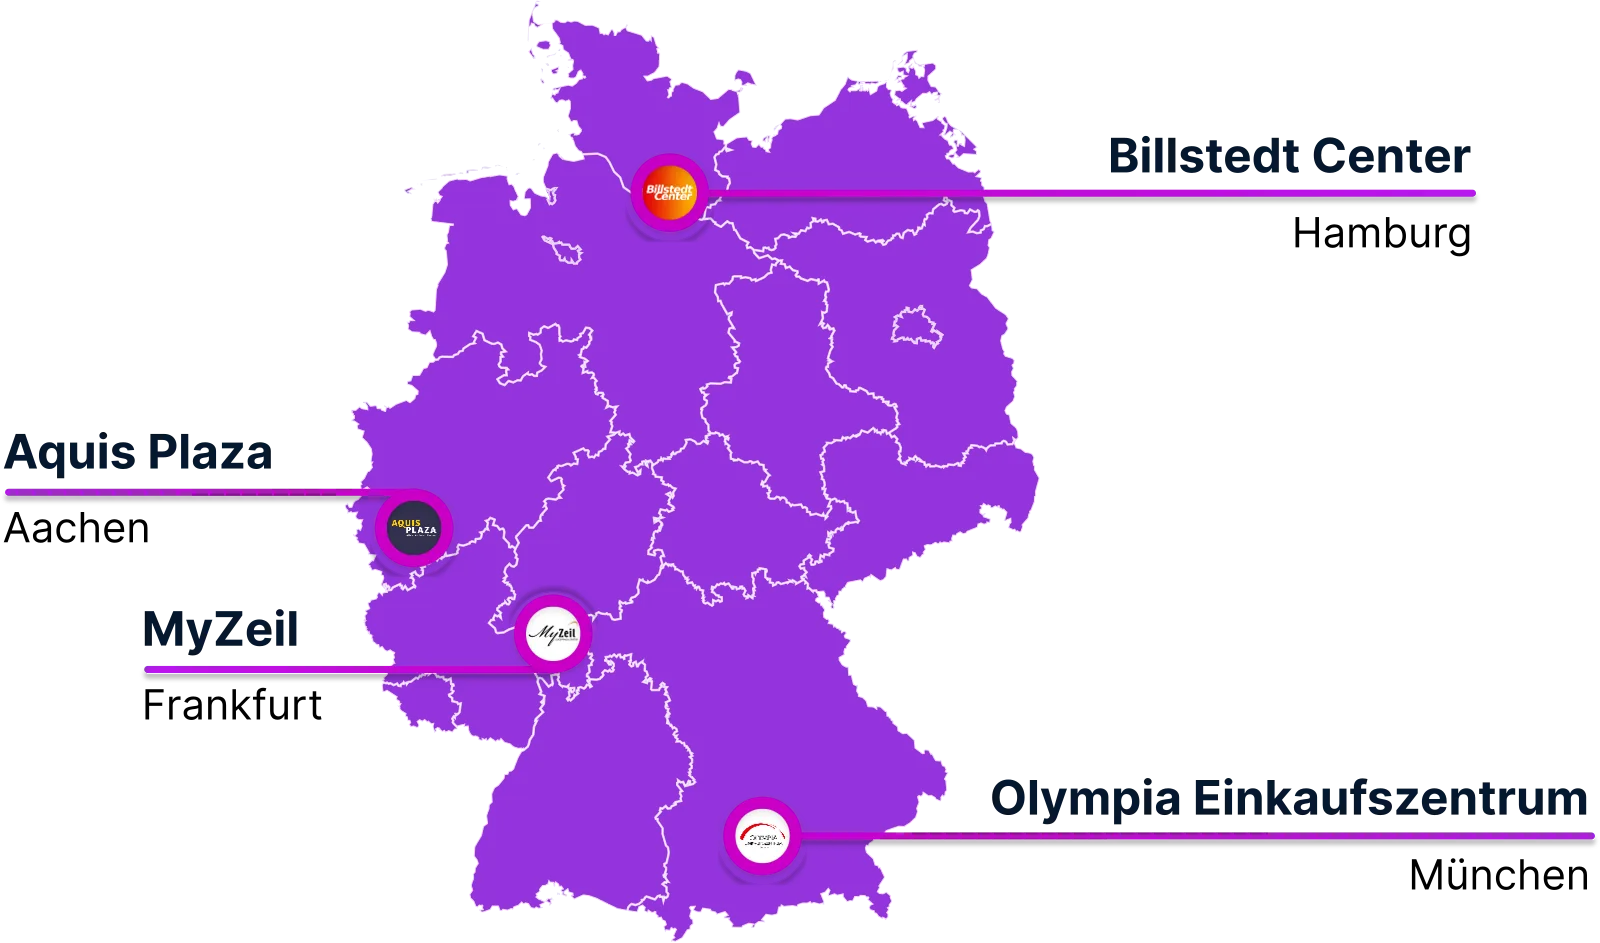
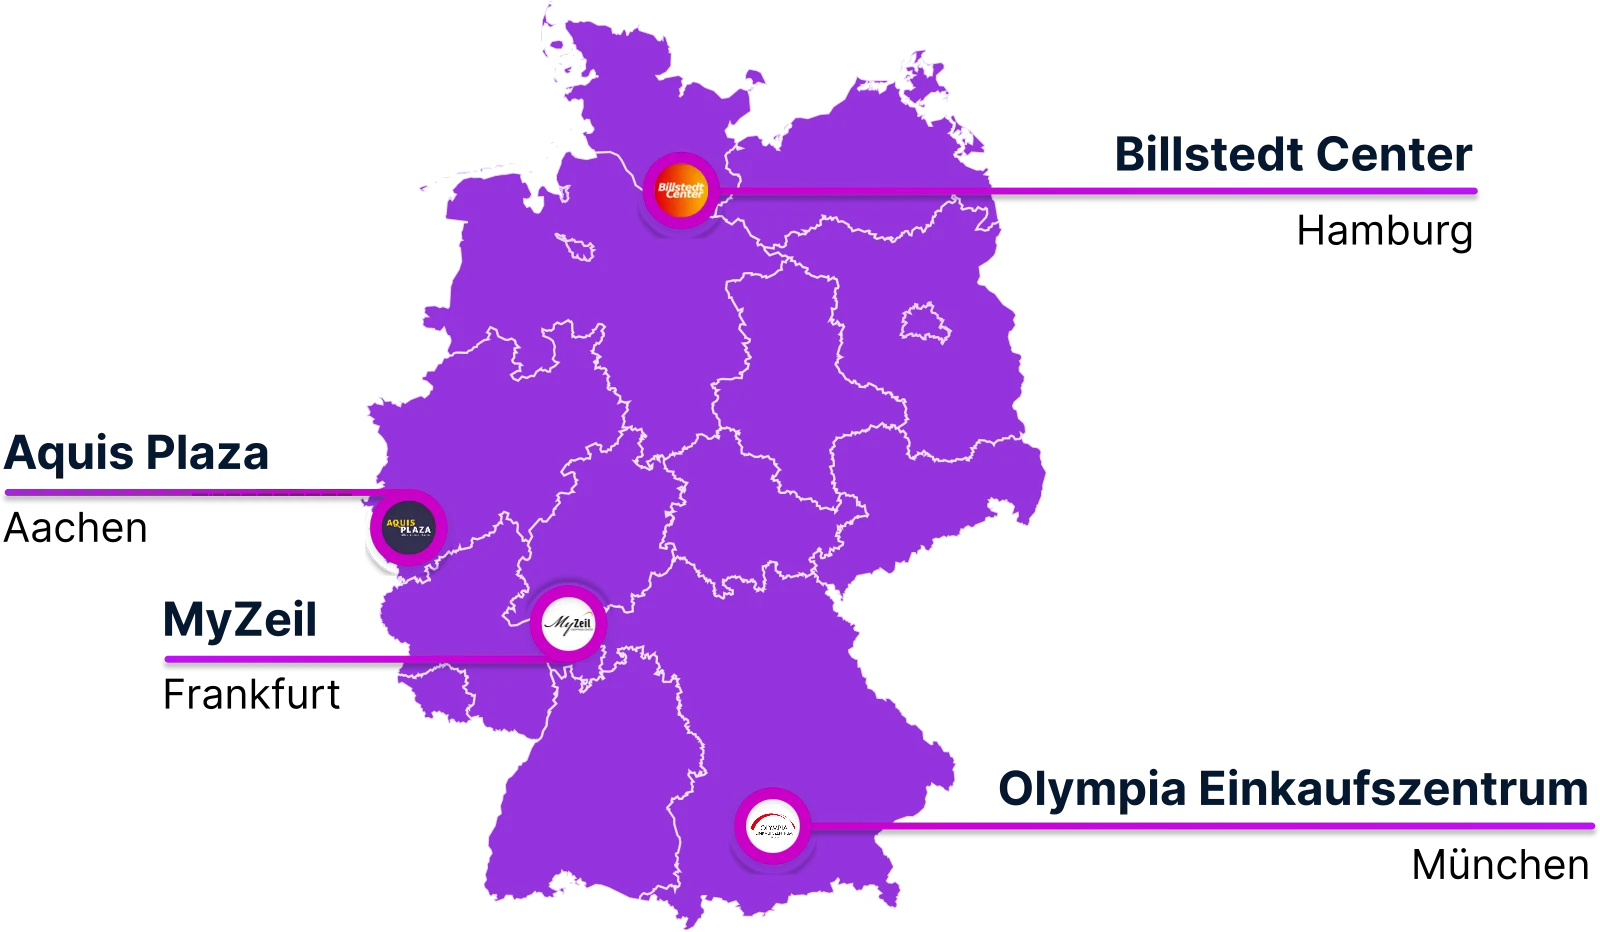
Map: replace the Germany partner map with the final version
Re-exported from the final Figma SVG (1600×932, transparent WebP). The
Aachen and Frankfurt pins sit closer to their real locations; image
dimensions in Nationwide updated to the new aspect ratio.

diff --git a/components/Nationwide.tsx b/components/Nationwide.tsx
@@ -112,7 +112,7 @@ const Nationwide = () => {
           src={GermanyMap}
           alt="Deutschlandkarte mit Swibble-Kunden: Billstedt Center in Hamburg, Aquis Plaza in Aachen, MyZeil in Frankfurt und Olympia Einkaufszentrum in München"
           width={1600}
-          height={943}
+          height={932}
           loading="lazy"
           sizes="(max-width: 1024px) calc(100vw - 2rem), 55vw"
           className="h-auto w-full"
